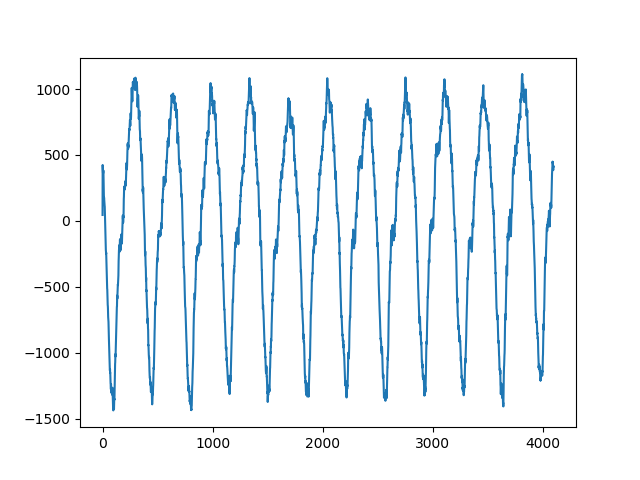
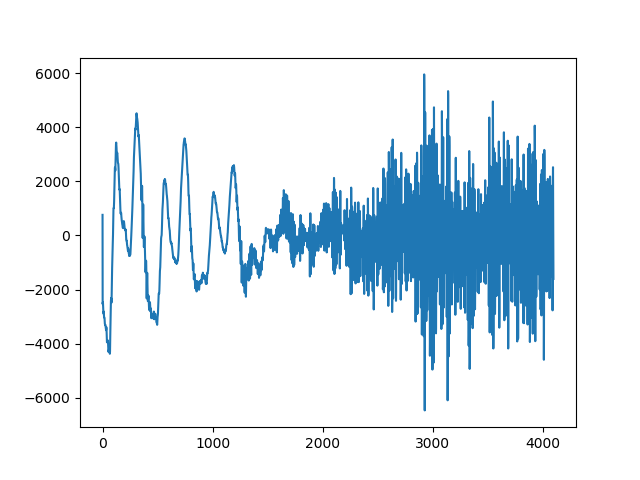
successful structural approach, strange fft result

diff --git a/voice/voice/voiceAnalysis.cpp b/voice/voice/voiceAnalysis.cpp
@@ -15,7 +15,7 @@ void VoiceAnalyzer::runVoiceAnalysis(signed short* voice, size_t size) {
 		for (uint32_t i = 0; i < size; ++i) {
 			acc += voice[i] > 0 ? voice[i] : -voice[i];
 		}
-		loudness.put(acc / size);
+		samples.getLast()->loudness = acc / size;
 		//std::cout << acc << "\tAcc " << acc / size << "\tL" << std::endl;
 	}
 	else {
@@ -29,18 +29,15 @@ void VoiceAnalyzer::kissFFT(const kiss_fft_scalar in[NFFT]) {
 
 	kiss_fftr_cfg cfg;
 
-	kiss_fft_cpx out[NFFT / 2 + 1];
-	int32_t outr[NFFT / 2 + 1];
-
 	if ((cfg = kiss_fftr_alloc(NFFT, 0/*is_inverse_fft*/, NULL, NULL)) != NULL)
 	{
-		kiss_fftr(cfg, in, out);
+		kiss_fftr(cfg, in, samples.getNext()->freqs);
 		free(cfg);
-
+/*
 		for (uint32_t i = 0; i < NFFT / 2 + 1; ++i) {
 			outr[i] = out[i].r * out[i].r + out[i].i * out[i].i;
-		}
-		VoiceAnalyzer::frequencies.put(outr, NFFT / 2 + 1);
+		}*/
+		samples.put();
 
 		//std::cout << "FFT!\n";
 	}

diff --git a/voice/voice/voiceAnalysis.h b/voice/voice/voiceAnalysis.h
@@ -1,4 +1,5 @@
 #pragma once
+
 #include "cyclicbuff.cpp"
 
 extern "C"
@@ -7,16 +8,18 @@ extern "C"
 }
 #include <cstdlib>
 
-constexpr auto N = 44100 * 3;
-constexpr auto NFFT = 4096;
+struct SampleData {
+
+	kiss_fft_cpx freqs[NFFT / 2 + 1];
+	long loudness;
+};
 
 class VoiceAnalyzer {
 public:
-	cyclicBuffer<int32_t, (NFFT / 2 + 1) * 30> frequencies;
-	cyclicBuffer<long, 30> loudness;
+	cyclicBuffer<SampleData, 30> samples;
 
 	void runVoiceAnalysis(signed short* voice, size_t size);
 	void kissFFT(const kiss_fft_scalar in[NFFT]);
 
-	VoiceAnalyzer() :frequencies() {};
+	VoiceAnalyzer() :samples(SampleData()) {};
 };

diff --git a/voice/voice/voiceTools.cpp b/voice/voice/voiceTools.cpp
@@ -40,8 +40,9 @@ void VoiceRecorder::onStop()
 
 	if (myfile2.is_open())
 	{
+		kiss_fft_cpx *freqs = analyzer.samples.get(15)->freqs;
 		for (uint32_t i = 0; i < NFFT / 2 + 1; ++i) {
-			myfile2 << analyzer.frequencies.get(i) << " ";
+			myfile2 << (freqs[i].i * freqs[i].i) + (freqs[i].r * freqs[i].r) << " ";
 		}
 
 		myfile2.close();
@@ -53,7 +54,7 @@ void VoiceRecorder::onStop()
 	if (myfile3.is_open())
 	{
 		for (uint32_t i = 0; i < 30; ++i) {
-			myfile3 << analyzer.loudness.get(i) << " ";
+			myfile3 << analyzer.samples.get(i)->loudness << " ";
 		}
 
 		myfile3.close();

diff --git a/voice/voice/voiceTools.h b/voice/voice/voiceTools.h
@@ -14,5 +14,5 @@ class VoiceRecorder : public sf::SoundRecorder
 	virtual void onStop();
 public:
 	virtual sf::SoundBuffer getBuffer();
-	VoiceRecorder() : commandBuffer(), analyzer(){};
+	VoiceRecorder() : commandBuffer(0), analyzer(){};
 };
